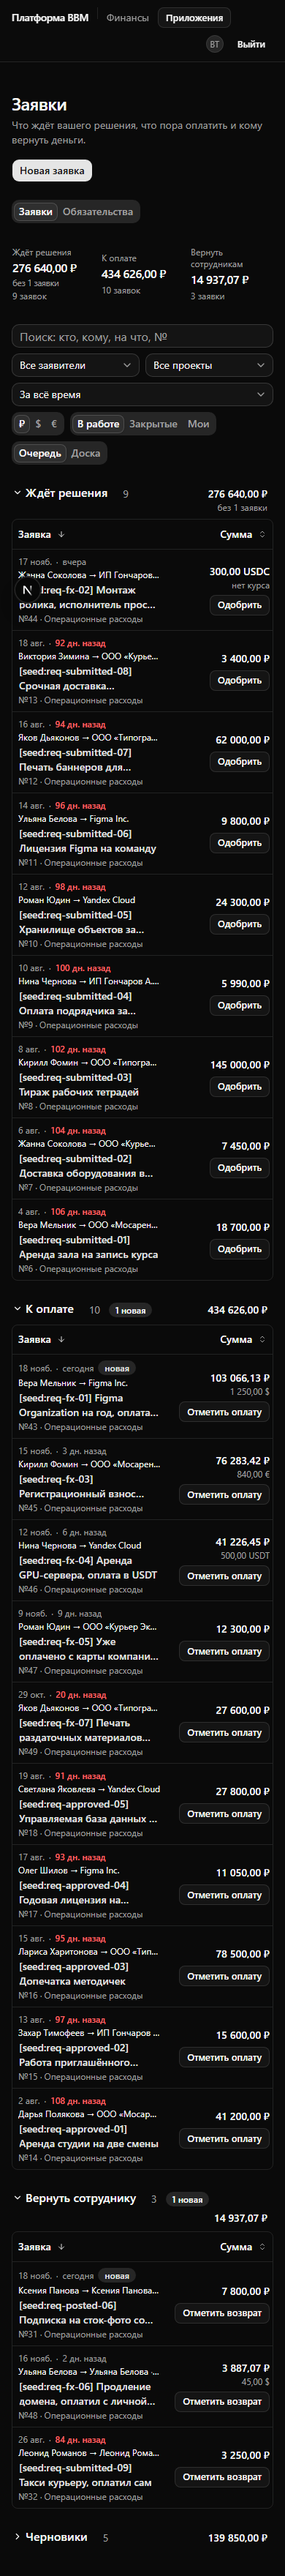
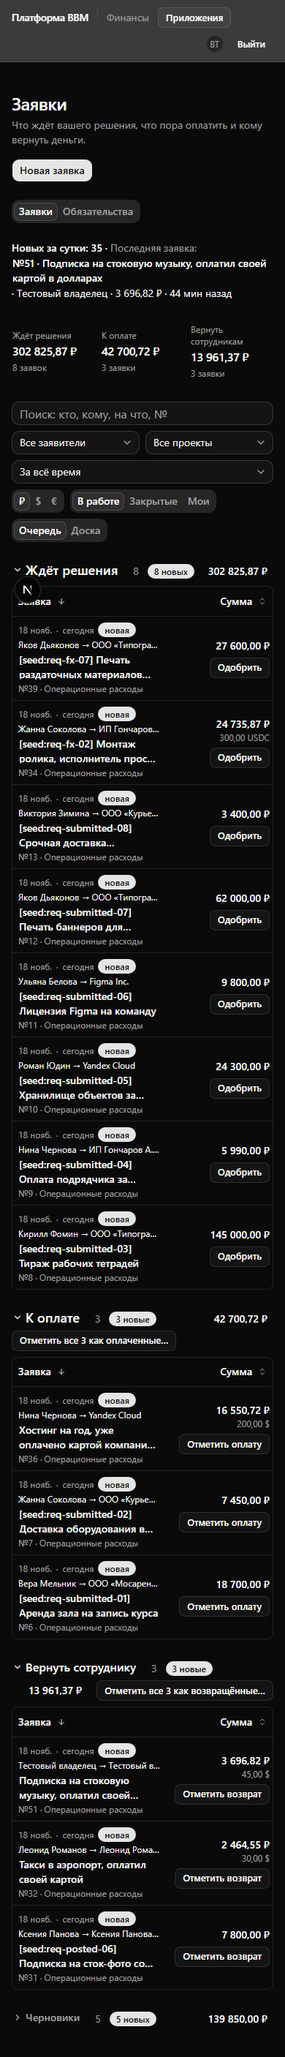
docs(evidence): re-capture after the pre-acceptance UX pass (#550 #551 #559)
Claude-Session: https://claude.ai/code/session_01BCe8sBebYyhQncmry5GLEx

Changed region(s): [[0.0, 0.0, 1.0, 0.99], [0.8615, 0.1238, 0.9231, 0.1547]]

diff --git a/docs/evidence/551/ux-pass.ts b/docs/evidence/551/ux-pass.ts
@@ -1,0 +1,170 @@
+/**
+ * The pre-acceptance UX pass over #550 / #551 / #559 (items 1–9): re-takes the
+ * frames the pass changed, on the lead's acceptance stand, acting on nothing
+ * (it opens, clicks «Прикрепить файл», and closes — no write).
+ *
+ * It signs in by minting the stand's own Auth.js cookie
+ * (`tests/e2e/support/platform-session.ts`): `AUTH_SECRET` is read from the
+ * process env, never written here.
+ *
+ * Usage: pnpm exec tsx --env-file=.env docs/evidence/551/ux-pass.ts <baseURL>
+ */
+import { appendFileSync } from 'node:fs'
+
+import { chromium, type Page } from '@playwright/test'
+
+import { signInAsPlatformMember } from '../../../tests/e2e/support/platform-session'
+
+const baseURL = process.argv[2] ?? 'http://localhost:3000'
+const only = new Set(process.argv.slice(3))
+const want = (step: string) => only.size === 0 || only.has(step)
+const VIEWPORTS = [
+  { name: 'desktop', width: 1440, height: 900 },
+  { name: 'phone', width: 390, height: 844 },
+] as const
+const APPROVER = {
+  email: process.env.E2E_ADMIN_EMAIL ?? 'bbm-test@bbm.local',
+  roles: ['platform-user', 'platform-admin', 'finance-approve', 'finance-entry'],
+}
+const FINDINGS = 'docs/evidence/551/findings-ux-pass.txt'
+
+function note(line: string) {
+  appendFileSync(FINDINGS, `${line}\n`)
+  console.log(line)
+}
+
+/**
+ * Light and dark at 1440 and 390. A sheet is framed whole (the viewport grows
+ * to its scroll height); a page is framed whole with `fullPage`. `suffix`
+ * keeps each folder's own naming: #550/#551 name the theme, #559 named none.
+ */
+async function shoot(page: Page, path: (viewport: string, theme: string) => string) {
+  for (const viewport of VIEWPORTS) {
+    for (const theme of ['light', 'dark']) {
+      await page.setViewportSize({ width: viewport.width, height: viewport.height })
+      await page.evaluate((value) => {
+        document.documentElement.classList.toggle('dark', value === 'dark')
+      }, theme)
+      // Let the dev server's «Compiling» chip settle out of the frame.
+      await page.waitForTimeout(1500)
+      const sheet = await page.evaluate(() => {
+        const node = document.querySelector('[role="dialog"]') as HTMLElement | null
+        return node === null ? 0 : node.scrollHeight
+      })
+      if (sheet > viewport.height) {
+        await page.setViewportSize({ width: viewport.width, height: sheet + 8 })
+        await page.waitForTimeout(250)
+      }
+      const overflow = await page.evaluate(
+        () => document.documentElement.scrollWidth - document.documentElement.clientWidth,
+      )
+      if (overflow > 0)
+        note(`${path(viewport.name, theme)}: page scrolls sideways by ${overflow}px`)
+      await page.screenshot({ path: path(viewport.name, theme), fullPage: sheet === 0 })
+    }
+  }
+  await page.setViewportSize({ width: VIEWPORTS[0].width, height: VIEWPORTS[0].height })
+  await page.evaluate(() => document.documentElement.classList.remove('dark'))
+}
+
+const queueFrame = (name: string) => (viewport: string, theme: string) =>
+  `docs/evidence/550/${name}--${viewport}--${theme}.png`
+const sheetFrame = (name: string) => (viewport: string, theme: string) =>
+  `docs/evidence/551/${name}--${viewport}--${theme}.png`
+const reportFrame = (name: string) => (viewport: string, theme: string) =>
+  `docs/evidence/559/${name}--${viewport}${theme === 'light' ? '' : '--dark'}.png`
+
+type Row = {
+  id: number
+  stage: string
+  currency: string
+  alreadyPaid: boolean
+  personalFunds: boolean
+  hasDocument: boolean
+  note: string | null
+  market: { kind: string } | null
+}
+
+const browser = await chromium.launch()
+const context = await browser.newContext({ baseURL, viewport: VIEWPORTS[0] })
+await signInAsPlatformMember(context, baseURL, APPROVER)
+const page = await context.newPage()
+const rows = (
+  (await (await context.request.get('/p/finance/api/requests')).json()) as { requests: Row[] }
+).requests
+const pick = (label: string, test: (row: Row) => boolean) => {
+  const row = rows.find(test)
+  note(`${label}: ${row === undefined ? 'none' : `#${row.id} (${row.stage}, ${row.currency})`}`)
+  return row
+}
+
+async function queue() {
+  await page.goto('/p/finance/requests')
+  await page.getByRole('group', { name: 'Итоги очереди' }).waitFor({ timeout: 90_000 })
+}
+
+async function openRequest(id: number) {
+  await page.goto(`/p/finance/requests?request=${id}`)
+  const dialog = page.getByRole('dialog')
+  await dialog.waitFor({ timeout: 90_000 })
+  return dialog
+}
+
+// Items 1–2: the latest-request line and the tiered group headings.
+if (want('queue')) {
+  await queue()
+  note(`latest line: ${await page.getByRole('status', { name: 'Последняя заявка' }).textContent()}`)
+  await shoot(page, queueFrame('01-queue-default'))
+  await page.getByRole('tab', { name: 'Закрытые' }).click()
+  await page.getByRole('region', { name: 'Оплачено' }).waitFor()
+  await shoot(page, queueFrame('11-scope-closed'))
+}
+
+// Items 3–6: the section labels, the put-away picker, the quiet «реквизитов нет», «факт не внесён».
+if (want('sheet')) {
+  const decide = pick('decide', (row) => row.stage === 'decide' && row.note !== null)
+  if (decide) {
+    await openRequest(decide.id)
+    await shoot(page, sheetFrame('01-sheet-decide-usd'))
+  }
+  const missing = pick(
+    'pay, no details',
+    (row) => row.stage === 'pay' && !row.alreadyPaid && !row.personalFunds && !row.hasDocument,
+  )
+  if (missing) {
+    const dialog = await openRequest(missing.id)
+    note(
+      `file inputs before «Прикрепить файл»: ${await dialog.locator('input[type=file]').count()}`,
+    )
+    await shoot(page, sheetFrame('02-sheet-pay-missing-details'))
+    await dialog.getByRole('button', { name: 'Прикрепить файл' }).click()
+    await shoot(page, sheetFrame('35-files-attach-opened'))
+  }
+  const pending = pick(
+    '§J факт не внесён',
+    (row) => row.market?.kind === 'not_posted' && row.stage === 'pay',
+  )
+  if (pending) {
+    await openRequest(pending.id)
+    await shoot(page, sheetFrame('05-sheet-fact-not-entered'))
+  }
+}
+
+// Items 7–9: measured rows first, the unmeasured muted; the empty period; the counters.
+if (want('report')) {
+  for (const [period, name] of [
+    ['12m', '02-default-12m-rub'],
+    ['month', '06-this-month'],
+  ] as const) {
+    await page.goto(`/p/finance/reports/market-rate?period=${period}`)
+    await page.getByRole('heading', { name: 'Курс против рынка' }).waitFor({ timeout: 90_000 })
+    const counters = page.getByRole('list', { name: 'Не учтено в сумме' })
+    note(
+      `${period}: counters = ${(await counters.count()) > 0 ? await counters.textContent() : 'none'}`,
+    )
+    note(`${period}: empty = ${await page.getByText('За период нет валютных платежей').count()}`)
+    await shoot(page, reportFrame(name))
+  }
+}
+
+await browser.close()

diff --git a/docs/evidence/551/README.md b/docs/evidence/551/README.md
@@ -92,3 +92,22 @@ number (they now show other requests where the earlier ones had been posted);
 S1 (a refused form remounts on the re-read row with fresh defaults and token)
 and S2 (a receipt failing after its act) are behaviours of the screen's state,
 pinned by `tests/unit/finance-requests-queue-ui.spec.ts`, not framed.
+
+## Pre-acceptance UX pass (items 1–9) — re-capture
+
+`ux-pass.ts` (this folder) re-took, on the lead's acceptance stand
+(`http://localhost:3000`, this worktree, acting on nothing), the frames the pass
+changed — 1440 × 900 and 390 × 844, light and dark; `findings-ux-pass.txt`
+lists what it read along the way.
+
+| Frame                                         | Item | State                                                                                      |
+| --------------------------------------------- | ---- | ------------------------------------------------------------------------------------------ |
+| `550/01-queue-default`                        | 1–2  | «Новых за сутки: K · Последняя заявка: №N · …» on one line; the tiered group headings      |
+| `550/11-scope-closed`                         | 2    | the closed groups as the archive tier                                                      |
+| `551/01`, `551/02`                            | 3–5  | section labels; «Нет файлов.» + «Прикрепить файл», no picker; the quiet «Реквизитов … нет» |
+| `551/35-files-attach-opened`                  | 4    | the picker after «Прикрепить файл», with «Не прикреплять»                                  |
+| `551/05-sheet-fact-not-entered`               | 6    | «факт не внесён — укажите списанную сумму…» in the body colour                             |
+| `559/02-default-12m-rub`, `559/06-this-month` | 7, 9 | measured rows in the table, «… · не измерено: причина» muted under it; counters by the sum |
+
+Item 8 (the empty period) has no stand frame: every period on the shared stand
+has currency payments and the pass writes nothing; the unit spec renders it.
